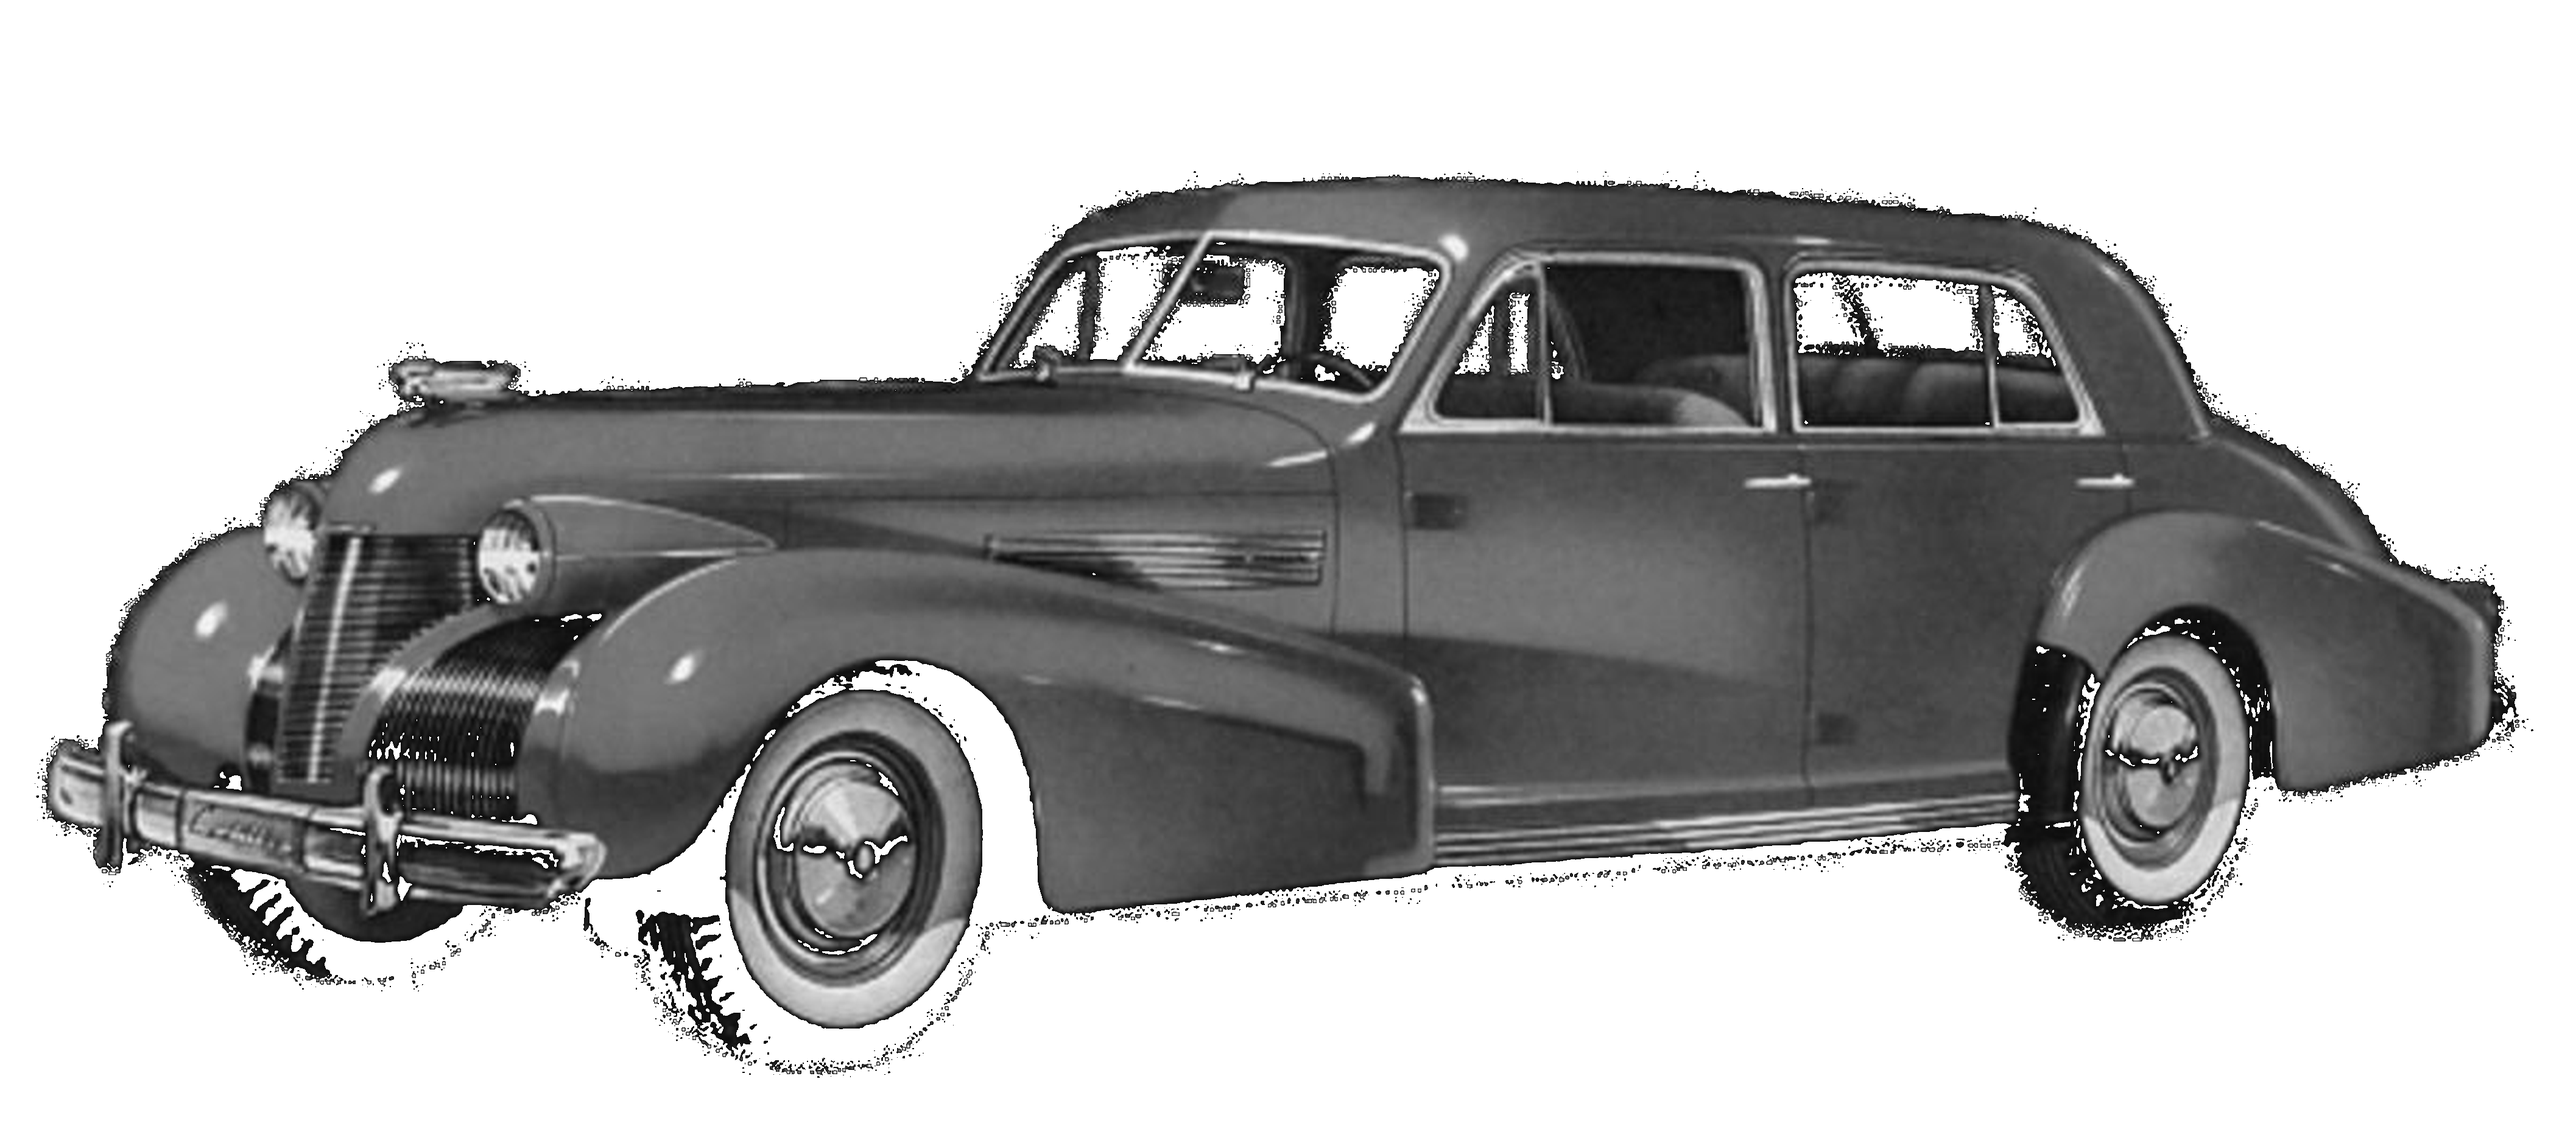
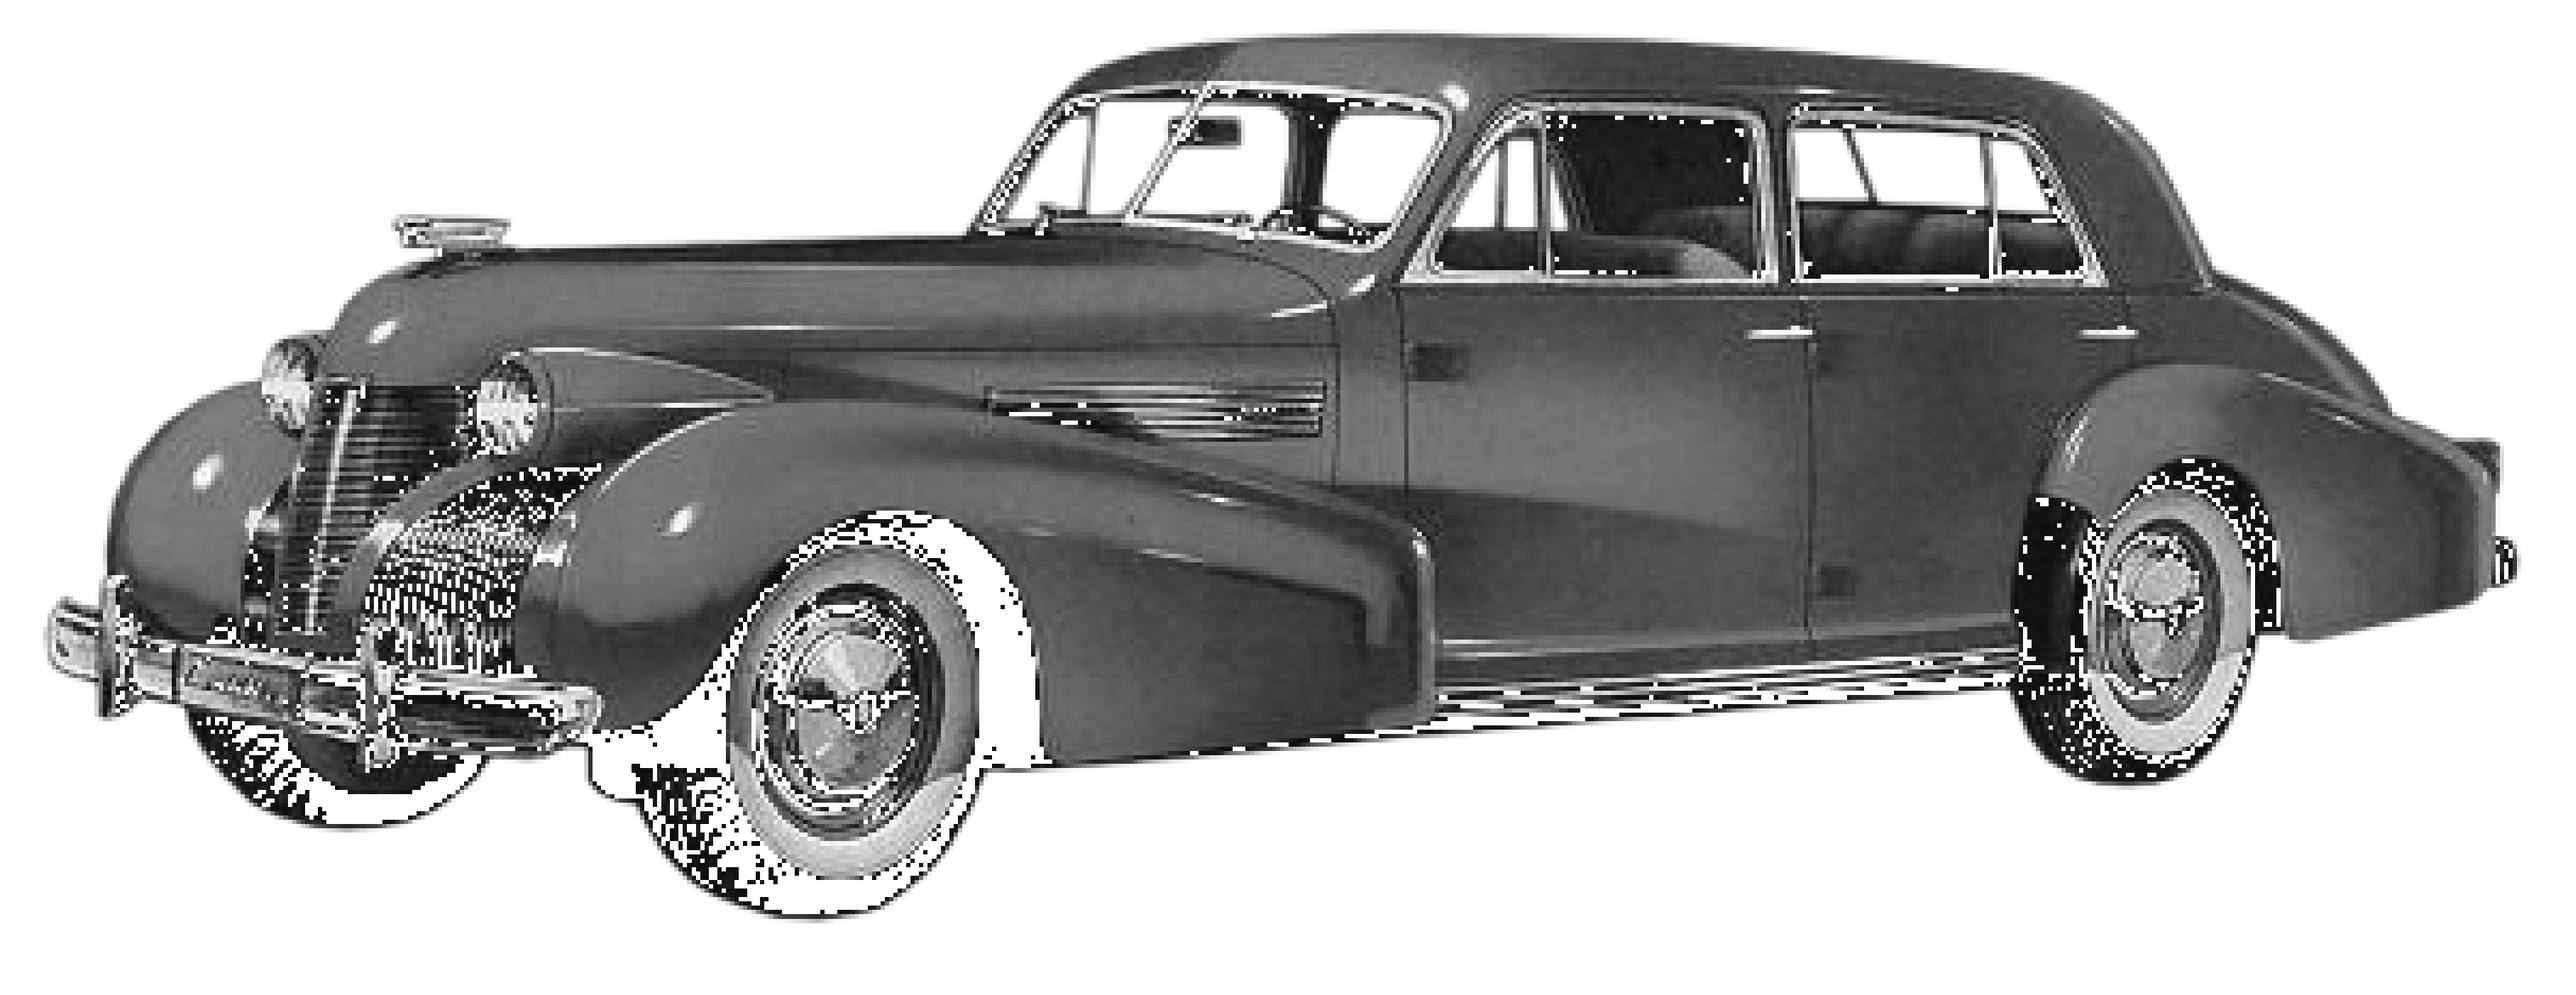
Improve About section: overlapping circles, sharp car, matched width
- Increase circle overlap to ~30% so three stats visibly stack like the design
- Re-extract car from 1410×545 PDF at 3× for a sharper transparent PNG
- Match section container width to cars section (1920px max, 63px padding)
- Remove grayscale filter and blend modes that softened the car image

diff --git a/src/App.css b/src/App.css
@@ -565,7 +565,7 @@
 
 .about-section__inner {
   width: 100%;
-  max-width: 1410px;
+  max-width: 1920px;
   margin: 0 auto;
 }
 
@@ -603,6 +603,7 @@
 .about-visual {
   position: relative;
   width: 100%;
+  overflow: visible;
 }
 
 .about-stats {
@@ -612,23 +613,25 @@
   justify-content: center;
   align-items: center;
   width: 100%;
+  overflow: visible;
 }
 
 .stat-circle {
   position: relative;
   flex: 0 0 auto;
-  width: 340px;
-  height: 340px;
-  margin-left: -52px;
+  width: clamp(150px, 21vw, 400px);
+  height: clamp(150px, 21vw, 400px);
+  margin-left: clamp(-88px, -7.5vw, -120px);
   border-radius: 50%;
   background: #ffffff;
-  border: 1px solid rgba(58, 60, 53, 0.18);
+  border: 1px solid rgba(58, 60, 53, 0.2);
   display: flex;
   flex-direction: column;
   align-items: center;
   justify-content: center;
   text-align: center;
   padding: 32px;
+  box-sizing: border-box;
 }
 
 .stat-circle:first-child {
@@ -676,7 +679,7 @@
 .about-car-wrap {
   position: relative;
   z-index: 3;
-  margin-top: -150px;
+  margin-top: -170px;
   width: 100%;
   display: flex;
   justify-content: center;
@@ -690,23 +693,16 @@
   display: block;
   object-fit: contain;
   object-position: center bottom;
-  filter: grayscale(100%);
   opacity: 1;
 }
 
 @media (max-width: 1200px) {
-  .stat-circle {
-    width: 280px;
-    height: 280px;
-    margin-left: -40px;
-  }
-
   .stat-circle__value {
     font-size: 76px;
   }
 
   .about-car-wrap {
-    margin-top: -120px;
+    margin-top: -140px;
   }
 }
 
@@ -724,9 +720,6 @@
   }
 
   .stat-circle {
-    width: 220px;
-    height: 220px;
-    margin-left: -32px;
     padding: 20px;
   }
 
@@ -744,7 +737,7 @@
   }
 
   .about-car-wrap {
-    margin-top: -90px;
+    margin-top: -110px;
   }
 }
 
@@ -758,9 +751,6 @@
   }
 
   .stat-circle {
-    width: 170px;
-    height: 170px;
-    margin-left: -24px;
     padding: 14px;
   }
 
@@ -777,15 +767,12 @@
   }
 
   .about-car-wrap {
-    margin-top: -70px;
+    margin-top: -85px;
   }
 }
 
 @media (max-width: 520px) {
   .stat-circle {
-    width: 118px;
-    height: 118px;
-    margin-left: -16px;
     padding: 10px;
   }
 

diff --git a/scripts/extract-about-car.py b/scripts/extract-about-car.py
@@ -3,7 +3,6 @@
 
 from __future__ import annotations
 
-import io
 import sys
 from pathlib import Path
 
@@ -25,34 +24,17 @@ UPLOAD_DIRS = [
     Path('/home/ubuntu/.cursor/projects/workspace/uploads'),
 ]
 OUTPUT_DIRS = [ROOT / 'public' / 'about', ROOT / 'src' / 'assets' / 'about']
-PDF_CANDIDATES = [
-    '7016c2ede1e3fc3b358792263629dc44_1_c5cb.pdf',
-    '7016c2ede1e3fc3b358792263629dc44_1__1__8ddd.pdf',
-]
+PDF_NAME = '7016c2ede1e3fc3b358792263629dc44_1__1__8ddd.pdf'
 OUTPUT_NAME = 'about-car.png'
-DISPLAY_WIDTH = 1410
-RENDER_SCALE = 3
+RENDER_SCALE = 3  # 4230×1635 for crisp 1410×545 display
 
 
 def find_pdf() -> Path | None:
-    for name in PDF_CANDIDATES:
-        for directory in UPLOAD_DIRS:
-            candidate = directory / name
-            if candidate.exists():
-                return candidate
+    for directory in UPLOAD_DIRS:
+        candidate = directory / PDF_NAME
+        if candidate.exists():
+            return candidate
     return None
-
-
-def remove_white_background(image: Image.Image, threshold: int = 238) -> Image.Image:
-    rgba = image.convert('RGBA')
-    pixels = rgba.load()
-    width, height = rgba.size
-    for y in range(height):
-        for x in range(width):
-            red, green, blue, alpha = pixels[x, y]
-            if red >= threshold and green >= threshold and blue >= threshold:
-                pixels[x, y] = (red, green, blue, 0)
-    return rgba
 
 
 def remove_black_background(image: Image.Image, threshold: int = 12) -> Image.Image:
@@ -70,40 +52,17 @@ def remove_black_background(image: Image.Image, threshold: int = 12) -> Image.Im
 def extract_car(pdf_path: Path) -> Image.Image:
     doc = fitz.open(pdf_path)
     page = doc[0]
-    images = page.get_images(full=True)
-
-    if images:
-        extracted = doc.extract_image(images[0][0])
-        image = Image.open(io.BytesIO(extracted['image'])).convert('RGB')
-    else:
-        matrix = fitz.Matrix(RENDER_SCALE, RENDER_SCALE)
-        pixmap = page.get_pixmap(matrix=matrix, clip=page.rect, alpha=False)
-        image = Image.frombytes('RGB', (pixmap.width, pixmap.height), pixmap.samples)
-
+    matrix = fitz.Matrix(RENDER_SCALE, RENDER_SCALE)
+    pixmap = page.get_pixmap(matrix=matrix, clip=page.rect, alpha=False)
+    image = Image.frombytes('RGB', (pixmap.width, pixmap.height), pixmap.samples)
     doc.close()
-
-    target_w = DISPLAY_WIDTH * RENDER_SCALE
-    scale = target_w / image.width
-    target_h = max(1, int(image.height * scale))
-    image = image.resize((target_w, target_h), Image.Resampling.LANCZOS)
-
-    # White-background exports use white key; black-background exports use black key.
-    corners = [
-        image.getpixel((0, 0)),
-        image.getpixel((image.width - 1, 0)),
-        image.getpixel((0, image.height - 1)),
-        image.getpixel((image.width - 1, image.height - 1)),
-    ]
-    avg = sum(sum(px) for px in corners) / (len(corners) * 3)
-    if avg > 200:
-        return remove_white_background(image)
     return remove_black_background(image)
 
 
 def main() -> None:
     pdf_path = find_pdf()
     if not pdf_path:
-        print('No about car PDF found, skipping extraction.')
+        print(f'Skipping {PDF_NAME}: file not found')
         return
 
     image = extract_car(pdf_path)
